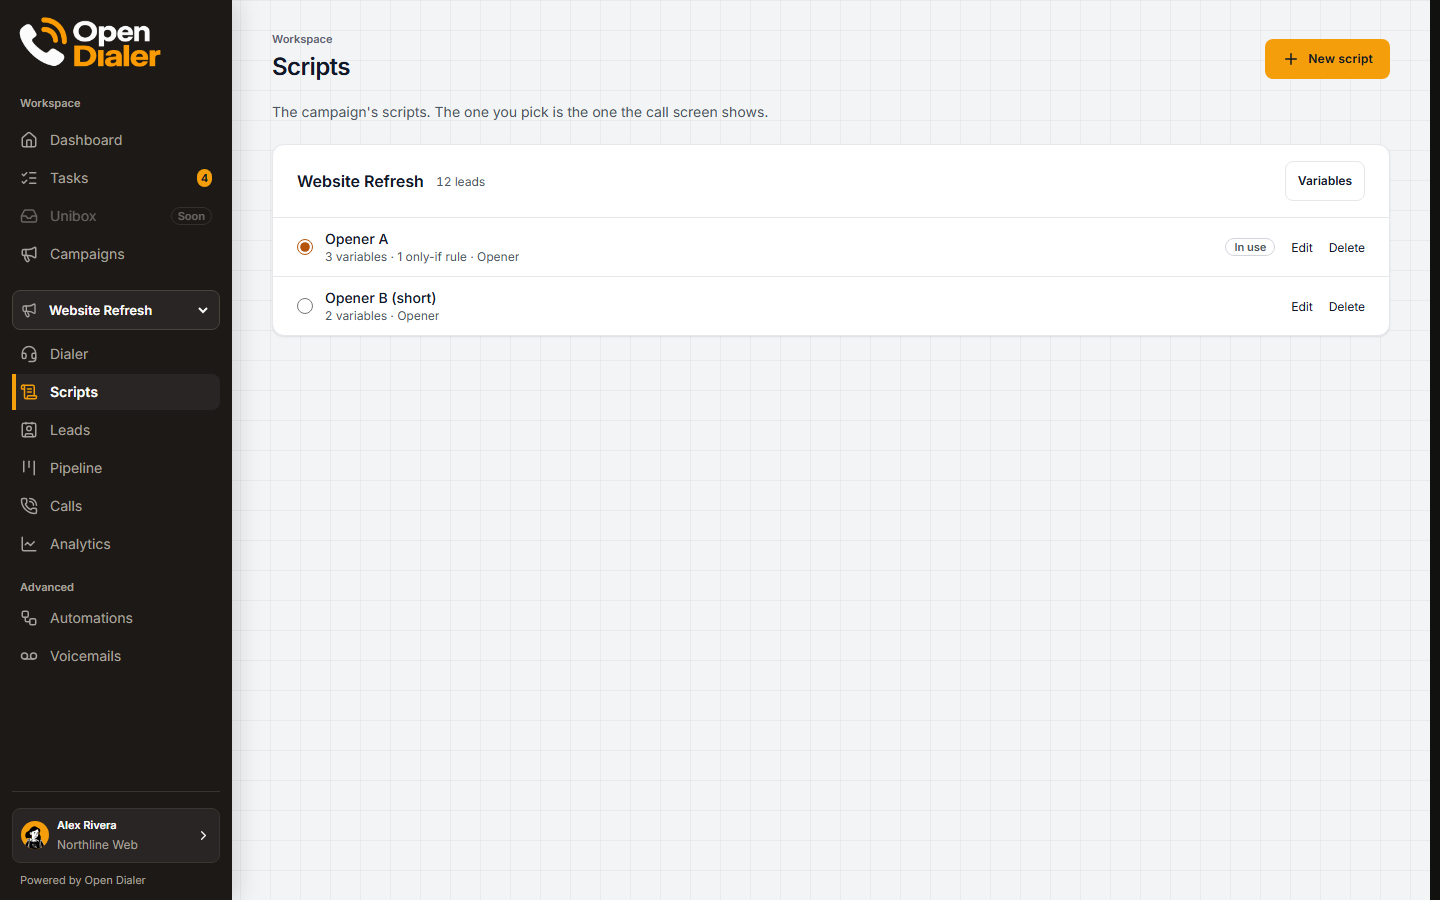
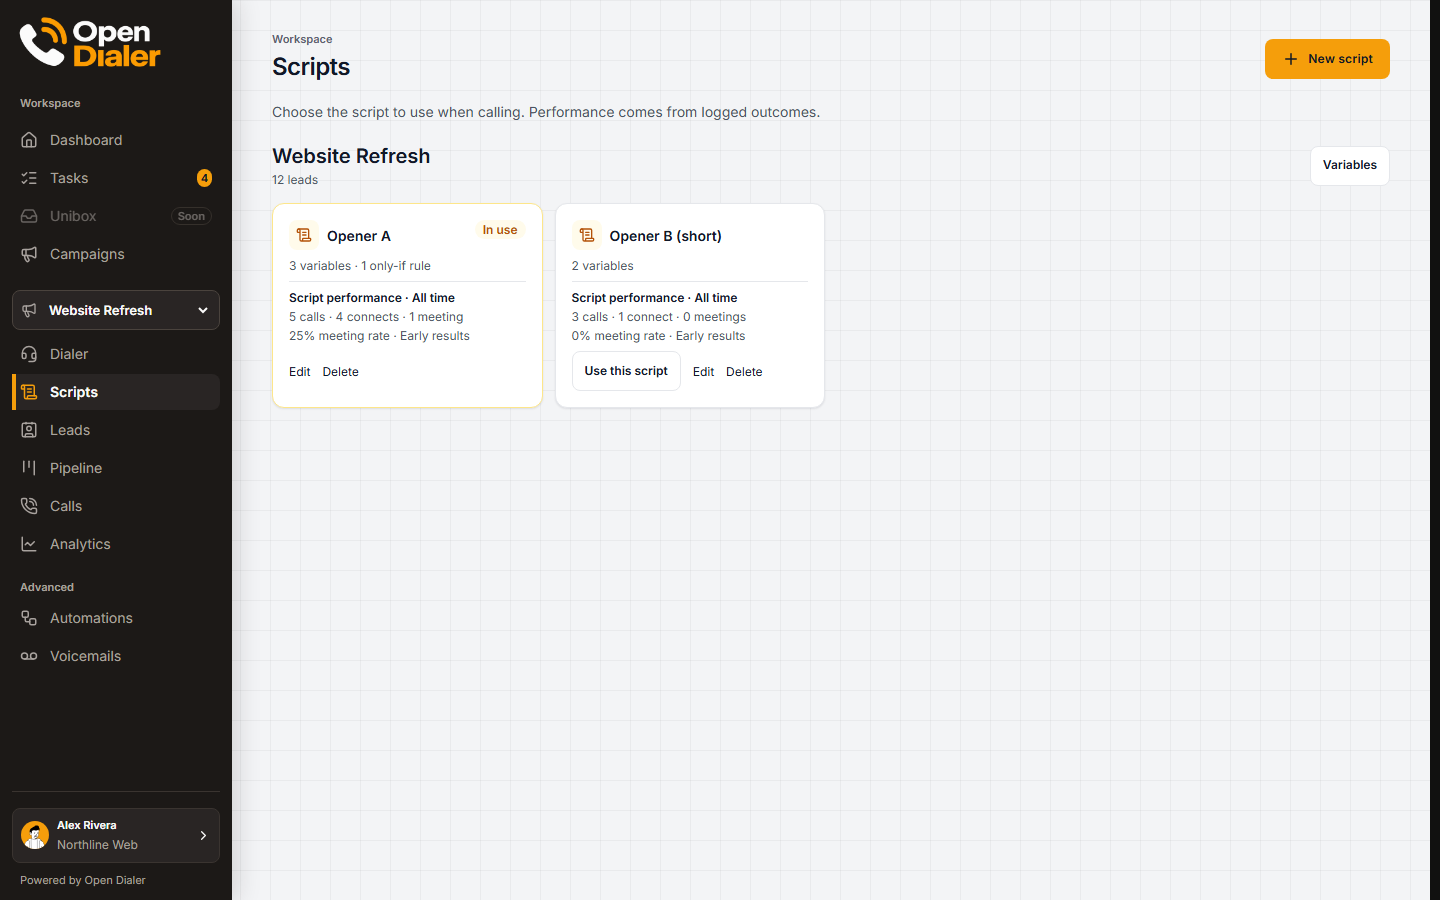
docs: light-mode README screenshots for the current app
Retaken at 1440x900 in light mode from a demo copy with made-up
businesses and 555 numbers: dialer (calling windows), dashboard,
automations (branching canvas), campaigns, leads, pipeline, scripts
(per-script performance), voicemails and features & costs. Captions
for the dialer and scripts match what they now show.

diff --git a/README.md b/README.md
@@ -44,8 +44,8 @@ Settings and can be switched off. Run it on your own computer or on a server.
 
 ## Screenshots
 
-<p align="center"><img src="docs/screenshots/dialer.png" alt="The dialer: the lead's details, local time and opening hours, pinned fields and the call script" width="900"></p>
-<p align="center"><sub>The dialer: who you're calling, their local time and opening hours, pinned details and the script.</sub></p>
+<p align="center"><img src="docs/screenshots/dialer.png" alt="The dialer: calling windows by time zone, the lead list, and the lead's details, local time and opening hours" width="900"></p>
+<p align="center"><sub>The dialer: calling windows by time zone, who you're calling, their local time and opening hours, pinned details and the script.</sub></p>
 
 <table>
   <tr>
@@ -61,7 +61,7 @@ Settings and can be switched off. Run it on your own computer or on a server.
     <td width="50%"><img src="docs/screenshots/dashboard.png" alt="The dashboard"><br><sub>Dashboard: today's calls, follow-ups and results.</sub></td>
   </tr>
   <tr>
-    <td width="50%"><img src="docs/screenshots/scripts.png" alt="A campaign's scripts, with the one in use picked"><br><sub>Scripts: several per campaign; pick the one the call screen shows.</sub></td>
+    <td width="50%"><img src="docs/screenshots/scripts.png" alt="A campaign's scripts with calls, connects and meeting rate for each"><br><sub>Scripts: several per campaign, each with its own calls, connects and meeting rate.</sub></td>
     <td width="50%"><img src="docs/screenshots/voicemails.png" alt="Recorded voicemails with what each one says and its campaign tag"><br><sub>Voicemails: record once, tag the campaign, see what each one says.</sub></td>
   </tr>
 </table>
